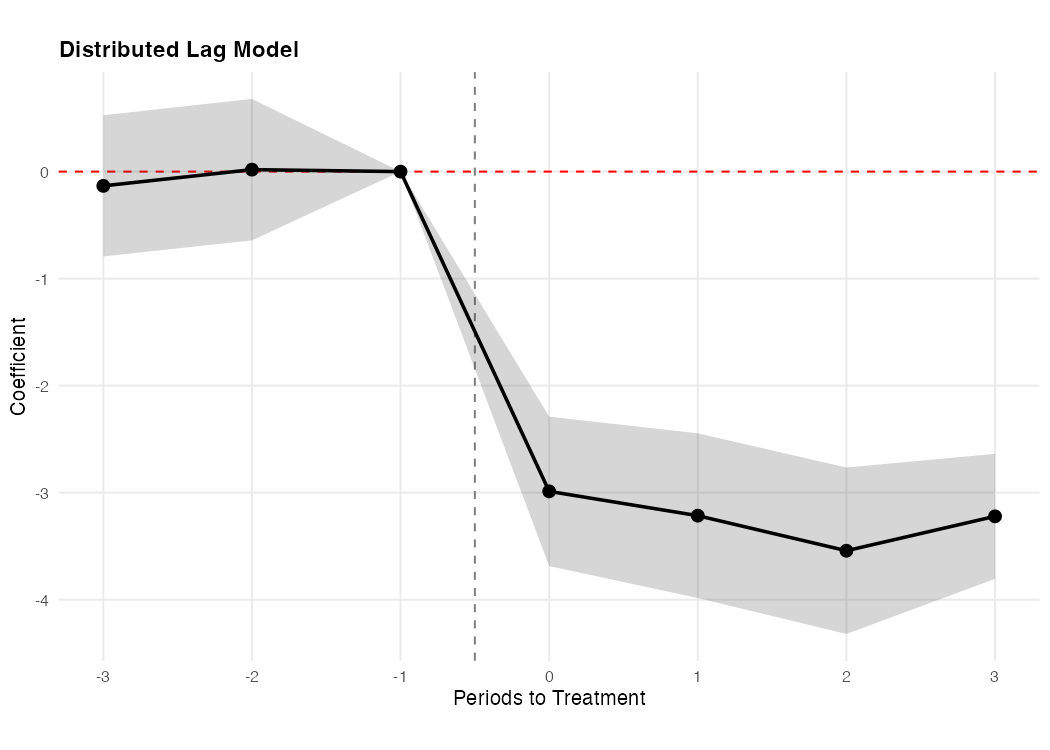
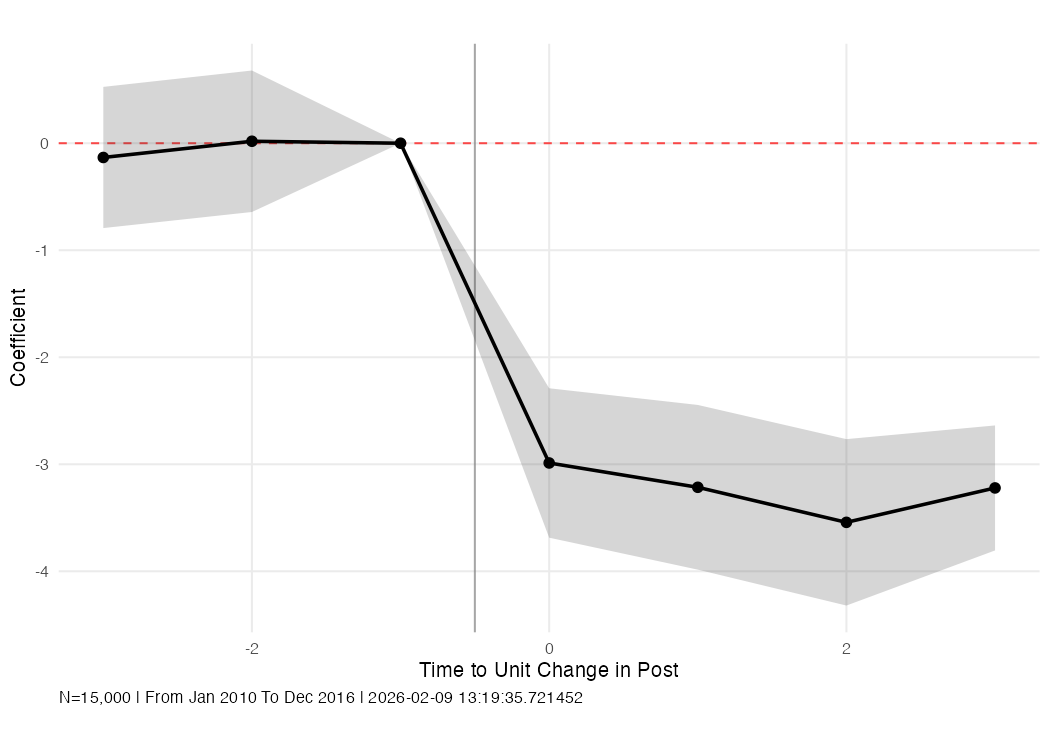
Deployed a90536f with MkDocs version: 1.6.1

diff --git a/stata/guide/index.html b/stata/guide/index.html
@@ -1390,7 +1390,7 @@
 </tr>
 <tr>
 <td><code>xtitle(string)</code></td>
-<td>X-axis title (default: "Time to Treatment")</td>
+<td>X-axis title (default: "Time to Unit Change in {Exposure}")</td>
 </tr>
 <tr>
 <td><code>ytitle(string)</code></td>

diff --git a/stata/api/index.html b/stata/api/index.html
@@ -1427,7 +1427,7 @@
 </tr>
 <tr>
 <td><code>xtitle(string)</code></td>
-<td>"Time to Treatment"</td>
+<td>"Time to Unit Change in {Exposure}"</td>
 <td>X-axis label</td>
 </tr>
 <tr>
